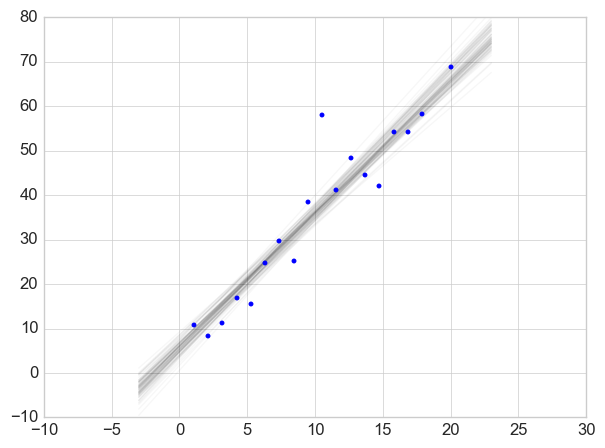
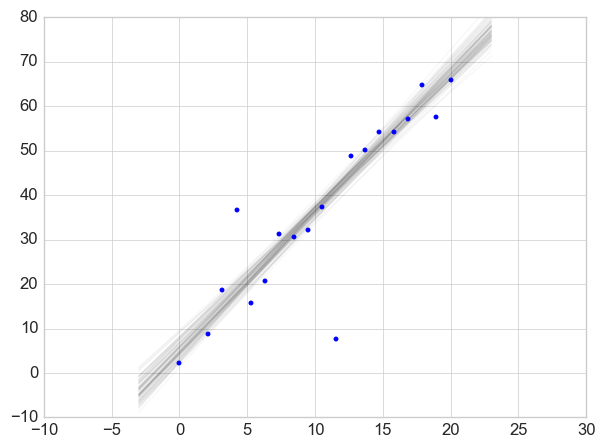
revision 3

Changed region(s): [[0.4165, 0.0625, 0.8331, 0.625], [0.2083, 0.6875, 0.357, 0.875], [0.357, 0.625, 0.4165, 0.6875]]

diff --git a/_posts/2015-12-20-pymc-regression-analysis.html b/_posts/2015-12-20-pymc-regression-analysis.html
@@ -123,8 +123,8 @@ Sampling&#x2026;&#x2026;Done!
 
 <pre class="src src-ipython"><span style="color: #93a1a1; font-style: italic;"># </span><span style="color: #93a1a1; font-style: italic;">Data</span>
 <span style="color: #a60000;">x</span> = <span style="color: #335000;">np</span>.<span style="color: #b90064;">linspace</span><span style="color: #657b83;">(</span><span style="color: #268bd2;">0</span>, <span style="color: #268bd2;">20</span>, <span style="color: #268bd2;">20</span><span style="color: #657b83;">)</span>
-<span style="color: #005b00;">a</span>, <span style="color: #006080;">b</span> = <span style="color: #268bd2;">3</span>, <span style="color: #268bd2;">5</span> <span style="color: #93a1a1; font-style: italic;"># </span><span style="color: #93a1a1; font-style: italic;">&#38656;&#35201;&#20272;&#35745;&#30340;&#21442;&#25968;</span>
-<span style="color: #00609b;">y</span> = <span style="color: #005b00;">a</span> * <span style="color: #a60000;">x</span> + <span style="color: #006080;">b</span> + <span style="color: #93009e;">stats</span>.<span style="color: #0d5400;">t</span>.<span style="color: #006097;">rvs</span><span style="color: #657b83;">(</span><span style="color: #7e2f00;">df</span>=<span style="color: #268bd2;">1</span>, <span style="color: #b90009;">scale</span>=<span style="color: #268bd2;">3</span>, <span style="color: #6b00b9;">size</span>=<span style="color: #335000;">np</span>.<span style="color: #6b00b9;">size</span><span style="color: #2aa198;">(</span><span style="color: #a60000;">x</span><span style="color: #2aa198;">)</span><span style="color: #657b83;">)</span>
+<span style="color: #005b00;">a</span>, <span style="color: #006080;">b</span> = <span style="color: #268bd2;">5</span>, <span style="color: #268bd2;">3</span> <span style="color: #93a1a1; font-style: italic;"># </span><span style="color: #93a1a1; font-style: italic;">&#38656;&#35201;&#20272;&#35745;&#30340;&#21442;&#25968;</span>
+<span style="color: #00609b;">y</span> = <span style="color: #006080;">b</span> * <span style="color: #a60000;">x</span> + <span style="color: #005b00;">a</span> + <span style="color: #93009e;">stats</span>.<span style="color: #0d5400;">t</span>.<span style="color: #006097;">rvs</span><span style="color: #657b83;">(</span><span style="color: #7e2f00;">df</span>=<span style="color: #268bd2;">1</span>, <span style="color: #b90009;">scale</span>=<span style="color: #268bd2;">3</span>, <span style="color: #6b00b9;">size</span>=<span style="color: #335000;">np</span>.<span style="color: #6b00b9;">size</span><span style="color: #2aa198;">(</span><span style="color: #a60000;">x</span><span style="color: #2aa198;">)</span><span style="color: #657b83;">)</span>
 
 <span style="color: #075400;">plt</span>.<span style="color: #be004e;">plot</span><span style="color: #657b83;">(</span><span style="color: #a60000;">x</span>, <span style="color: #00609b;">y</span>, <span style="color: #2aa198;">'.'</span><span style="color: #657b83;">)</span>
 <span style="color: #075400;">plt</span>.<span style="color: #005c0a;">xlim</span><span style="color: #657b83;">(</span><span style="color: #2aa198;">(</span>-<span style="color: #268bd2;">10</span>, <span style="color: #268bd2;">30</span><span style="color: #2aa198;">)</span><span style="color: #657b83;">)</span>
@@ -147,9 +147,9 @@ alpha 和 beta 的先验均值为 0，但现在这个简单模型，可以从上
 <div class="org-src-container">
 
 <pre class="src src-ipython"><span style="color: #859900;">with</span> <span style="color: #0052e9;">pm</span>.<span style="color: #0045e2;">Model</span><span style="color: #657b83;">()</span> <span style="color: #859900;">as</span> <span style="color: #0059e8;">linreg</span>:
-    <span style="color: #00608a;">ma</span> = <span style="color: #0052e9;">pm</span>.<span style="color: #0060d2;">Normal</span><span style="color: #657b83;">(</span><span style="color: #2aa198;">'alpha'</span>, <span style="color: #0038d8;">mu</span>=<span style="color: #268bd2;">4</span>, <span style="color: #005e51;">sd</span>=<span style="color: #268bd2;">2</span><span style="color: #657b83;">)</span>
-    <span style="color: #c0003d;">mb</span> = <span style="color: #0052e9;">pm</span>.<span style="color: #0060d2;">Normal</span><span style="color: #657b83;">(</span><span style="color: #2aa198;">'beta'</span>, <span style="color: #0038d8;">mu</span>=<span style="color: #268bd2;">7</span>, <span style="color: #005e51;">sd</span>=<span style="color: #268bd2;">2</span><span style="color: #657b83;">)</span>
-    <span style="color: #0038d8;">mu</span> = <span style="color: #00608a;">ma</span> * <span style="color: #a60000;">x</span> + <span style="color: #c0003d;">mb</span>
+    <span style="color: #0045e2;">alpha</span> = <span style="color: #0052e9;">pm</span>.<span style="color: #0060d2;">Normal</span><span style="color: #657b83;">(</span><span style="color: #2aa198;">'alpha'</span>, <span style="color: #0038d8;">mu</span>=<span style="color: #268bd2;">7</span>, <span style="color: #005e51;">sd</span>=<span style="color: #268bd2;">2</span><span style="color: #657b83;">)</span>
+    <span style="color: #b70000;">beta</span> = <span style="color: #0052e9;">pm</span>.<span style="color: #0060d2;">Normal</span><span style="color: #657b83;">(</span><span style="color: #2aa198;">'beta'</span>, <span style="color: #0038d8;">mu</span>=<span style="color: #268bd2;">2</span>, <span style="color: #005e51;">sd</span>=<span style="color: #268bd2;">2</span><span style="color: #657b83;">)</span>
+    <span style="color: #0038d8;">mu</span> = <span style="color: #b70000;">beta</span> * <span style="color: #a60000;">x</span> + <span style="color: #0045e2;">alpha</span>
     <span style="color: #0049e5;">nuMinusOne</span> = <span style="color: #0052e9;">pm</span>.<span style="color: #2726cc;">Exponential</span><span style="color: #657b83;">(</span><span style="color: #2aa198;">'nu'</span>, <span style="color: #6f00b7;">lam</span>=<span style="color: #268bd2;">1</span><span style="color: #657b83;">)</span>
     <span style="color: #0044e1;">nu</span> = <span style="color: #0049e5;">nuMinusOne</span> + <span style="color: #268bd2;">1</span>
     <span style="color: #6f00b7;">lam</span> = <span style="color: #0052e9;">pm</span>.<span style="color: #005900;">Uniform</span><span style="color: #657b83;">(</span><span style="color: #2aa198;">'lam'</span>, <span style="color: #268bd2;">0</span>, <span style="color: #268bd2;">10</span><span style="color: #657b83;">)</span>
@@ -172,7 +172,7 @@ alpha 和 beta 的先验均值为 0，但现在这个简单模型，可以从上
 </div>
 
 <p>
-看看结果，注意 a 和 b 的实际值为 3 和 5
+看看结果，注意 a 和 b 的实际值为 5 和 3
 </p>
 
 <div class="org-src-container">
@@ -187,13 +187,13 @@ alpha:
   Mean             SD               MC Error         95% HPD interval
   -------------------------------------------------------------------
   
-  3.034            0.146            nan              [2.803, 3.367]
+  5.320            1.870            nan              [2.114, 9.089]
 
   Posterior quantiles:
   2.5            25             50             75             97.5
   |--------------|==============|==============|--------------|
   
-  2.803          2.943          3.037          3.137          3.367
+  2.319          4.181          4.991          6.765          9.403
 
 
 beta:
@@ -201,13 +201,13 @@ beta:
   Mean             SD               MC Error         95% HPD interval
   -------------------------------------------------------------------
   
-  5.618            1.563            nan              [2.321, 8.670]
+  3.116            0.149            nan              [2.852, 3.427]
 
   Posterior quantiles:
   2.5            25             50             75             97.5
   |--------------|==============|==============|--------------|
   
-  2.321          4.744          5.780          6.721          8.670
+  2.852          3.027          3.117          3.218          3.427
 </pre>
 
 <p>
@@ -216,11 +216,11 @@ beta:
 
 <div class="org-src-container">
 
-<pre class="src src-ipython"><span style="color: #0045e2;">alpha</span> = <span style="color: #0060cf;">trace_linreg</span><span style="color: #657b83;">[</span><span style="color: #268bd2;">2000</span>::<span style="color: #268bd2;">100</span><span style="color: #657b83;">][</span><span style="color: #2aa198;">'alpha'</span><span style="color: #657b83;">]</span>
-<span style="color: #b70000;">beta</span> = <span style="color: #0060cf;">trace_linreg</span><span style="color: #657b83;">[</span><span style="color: #268bd2;">2000</span>::<span style="color: #268bd2;">100</span><span style="color: #657b83;">][</span><span style="color: #2aa198;">'beta'</span><span style="color: #657b83;">]</span>
+<pre class="src src-ipython"><span style="color: #005d22;">a_p</span> = <span style="color: #0060cf;">trace_linreg</span><span style="color: #657b83;">[</span><span style="color: #268bd2;">2000</span>::<span style="color: #268bd2;">100</span><span style="color: #657b83;">][</span><span style="color: #2aa198;">'alpha'</span><span style="color: #657b83;">]</span>
+<span style="color: #005de3;">b_p</span> = <span style="color: #0060cf;">trace_linreg</span><span style="color: #657b83;">[</span><span style="color: #268bd2;">2000</span>::<span style="color: #268bd2;">100</span><span style="color: #657b83;">][</span><span style="color: #2aa198;">'beta'</span><span style="color: #657b83;">]</span>
 <span style="color: #005900;">x_p</span> = <span style="color: #335000;">np</span>.<span style="color: #b90064;">linspace</span><span style="color: #657b83;">(</span>-<span style="color: #268bd2;">3</span>, <span style="color: #268bd2;">23</span><span style="color: #657b83;">)</span>
-<span style="color: #859900;">for</span> <span style="color: #544800;">i</span> <span style="color: #859900;">in</span> <span style="color: #6c71c4;">range</span><span style="color: #657b83;">(</span><span style="color: #6c71c4;">len</span><span style="color: #2aa198;">(</span><span style="color: #0045e2;">alpha</span><span style="color: #2aa198;">)</span><span style="color: #657b83;">)</span>:
-    <span style="color: #00608b;">y_p</span> = <span style="color: #0045e2;">alpha</span><span style="color: #657b83;">[</span><span style="color: #544800;">i</span><span style="color: #657b83;">]</span> * <span style="color: #005900;">x_p</span> + <span style="color: #b70000;">beta</span><span style="color: #657b83;">[</span><span style="color: #544800;">i</span><span style="color: #657b83;">]</span>
+<span style="color: #859900;">for</span> <span style="color: #544800;">i</span> <span style="color: #859900;">in</span> <span style="color: #6c71c4;">range</span><span style="color: #657b83;">(</span><span style="color: #6c71c4;">len</span><span style="color: #2aa198;">(</span><span style="color: #005d22;">a_p</span><span style="color: #2aa198;">)</span><span style="color: #657b83;">)</span>:
+    <span style="color: #00608b;">y_p</span> = <span style="color: #005de3;">b_p</span><span style="color: #657b83;">[</span><span style="color: #544800;">i</span><span style="color: #657b83;">]</span> * <span style="color: #005900;">x_p</span> + <span style="color: #005d22;">a_p</span><span style="color: #657b83;">[</span><span style="color: #544800;">i</span><span style="color: #657b83;">]</span>
     <span style="color: #075400;">plt</span>.<span style="color: #be004e;">plot</span><span style="color: #657b83;">(</span><span style="color: #005900;">x_p</span>, <span style="color: #00608b;">y_p</span>, <span style="color: #2aa198;">'k'</span>, <span style="color: #0045e2;">alpha</span>=.<span style="color: #268bd2;">03</span><span style="color: #657b83;">)</span>
 
 <span style="color: #075400;">plt</span>.<span style="color: #be004e;">plot</span><span style="color: #657b83;">(</span><span style="color: #a60000;">x</span>, <span style="color: #00609b;">y</span>, <span style="color: #2aa198;">'.'</span><span style="color: #657b83;">)</span>
@@ -340,13 +340,13 @@ beta0:
   Mean             SD               MC Error         95% HPD interval
   -------------------------------------------------------------------
   
-  5.371            0.551            0.060            [4.342, 6.408]
+  5.238            0.602            0.056            [4.122, 6.366]
 
   Posterior quantiles:
   2.5            25             50             75             97.5
   |--------------|==============|==============|--------------|
   
-  4.227          5.009          5.397          5.792          6.400
+  4.134          4.864          5.226          5.688          6.456
 
 
 beta1:
@@ -354,7 +354,7 @@ beta1:
   Mean             SD               MC Error         95% HPD interval
   -------------------------------------------------------------------
   
-  0.392            0.035            0.003            [0.327, 0.453]
+  0.384            0.038            0.004            [0.308, 0.456]
   0.010            0.001            0.000            [0.009, 0.011]
   0.000            0.000            0.000            [0.000, 0.000]
 
@@ -362,8 +362,8 @@ beta1:
   2.5            25             50             75             97.5
   |--------------|==============|==============|--------------|
   
-  0.329          0.363          0.392          0.417          0.456
-  0.009          0.010          0.010          0.010          0.012
+  0.308          0.361          0.383          0.410          0.456
+  0.009          0.010          0.010          0.011          0.011
   0.000          0.000          0.000          0.000          0.000
 </pre>
 
